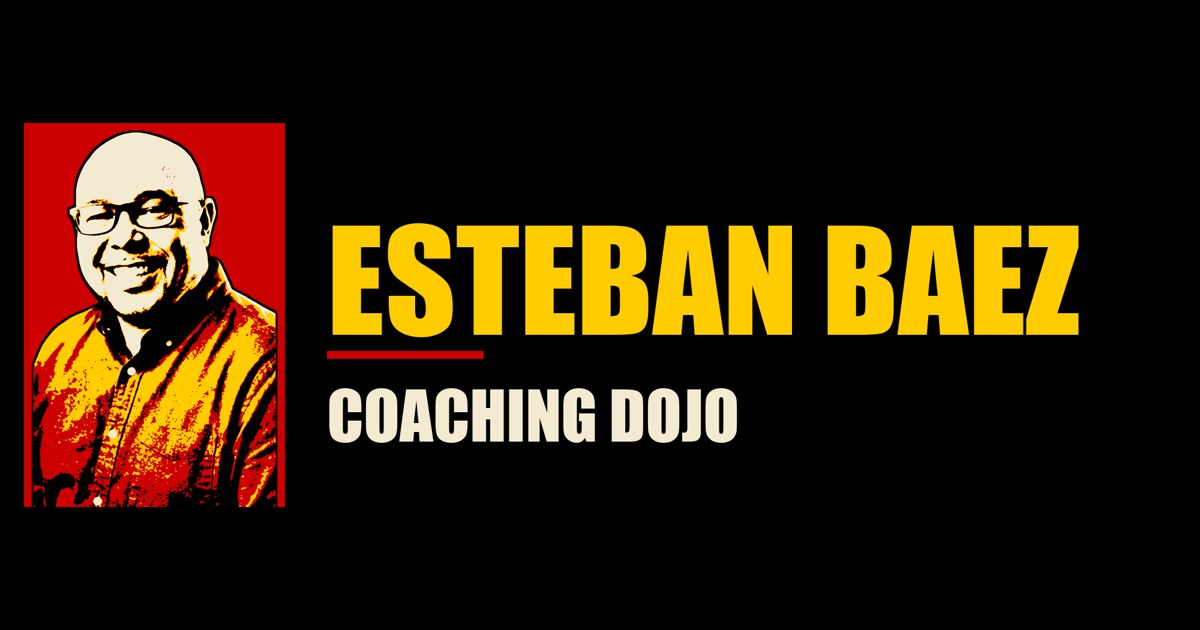
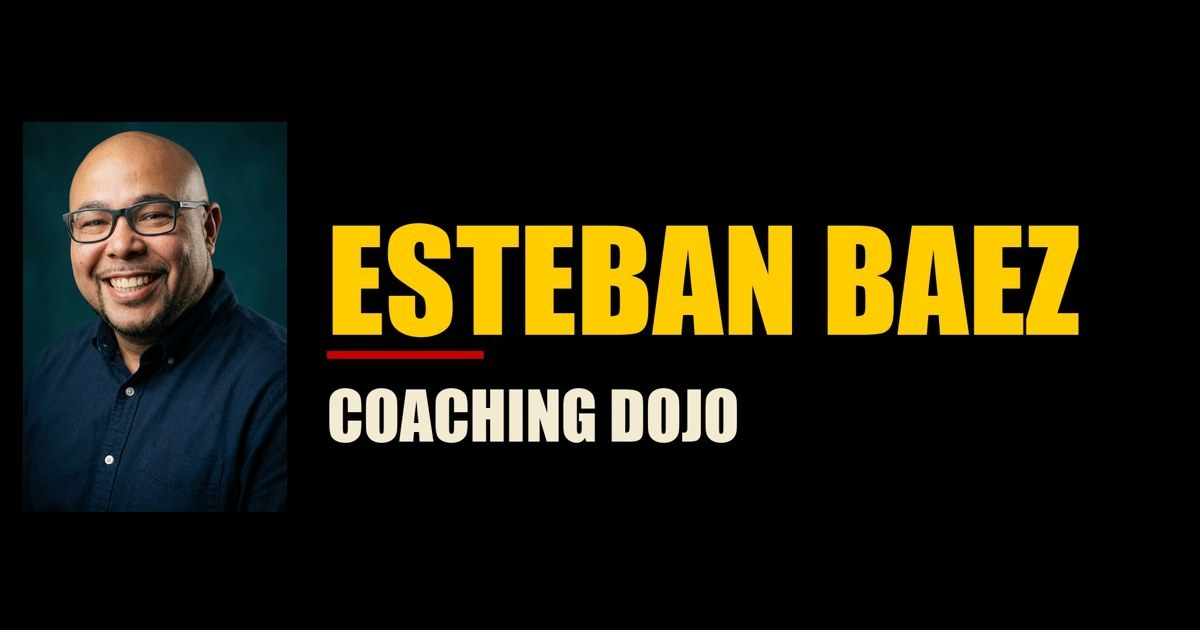
Use original studio photo for hero and share image
Claude-Session: https://claude.ai/code/session_0122WDdwgaUroXYcLvfHbMBm

diff --git a/index.html b/index.html
@@ -17,7 +17,7 @@
 <link rel="canonical" href="https://estebanbaez.com/">
 <meta name="robots" content="index, follow">
 <meta name="author" content="Esteban Baez">
-<script type="application/ld+json">{"@context": "https://schema.org", "@graph": [{"@type": "Person", "@id": "https://estebanbaez.com/#esteban", "name": "Esteban Baez", "url": "https://estebanbaez.com/", "image": "https://estebanbaez.com/esteban-stencil.jpg", "jobTitle": "AI Sales Trainer and Business Consultant", "knowsAbout": ["Sales training", "AI for sales", "Claude Code", "Sales operations", "Nervous system regulation", "Quarterly planning"]}, {"@type": "ProfessionalService", "@id": "https://estebanbaez.com/#dojo", "name": "Esteban Baez Coaching Dojo", "url": "https://estebanbaez.com/", "logo": "https://estebanbaez.com/eb-logo-wide.jpg", "founder": {"@id": "https://estebanbaez.com/#esteban"}, "description": "AI sales training and business consulting for owners and operators going from $10K months to $50K+ months: sales skills, AI for sales and operations, nervous system regulation, and a quarterly goals and weekly meeting rhythm.", "areaServed": "Worldwide", "serviceType": ["Sales coaching", "AI sales training", "Business coaching"], "potentialAction": {"@type": "ReserveAction", "target": "https://calendly.com/estebanbaezcoaching/virtual-coffee-with-esteban", "name": "Book a virtual coffee"}}, {"@type": "FAQPage", "mainEntity": [{"@type": "Question", "name": "What does Esteban Baez coach?", "acceptedAnswer": {"@type": "Answer", "text": "Four things: using AI (Claude Code) to run sales and operations, a repeatable sales process for calls or in person, nervous system regulation for people who sell and lead under pressure, and Dominating Quarters, a quarterly goals and weekly meeting rhythm for growing a business."}}, {"@type": "Question", "name": "Who is the coaching for?", "acceptedAnswer": {"@type": "Answer", "text": "Owners and operators doing around $10K a month on hustle who are ready for $50K+ months and beyond, plus their sales reps and small teams."}}, {"@type": "Question", "name": "Who is this not for?", "acceptedAnswer": {"@type": "Answer", "text": "It's not for you if you're already at $50K a month or more, if you love the hustle and don't want a coach, if you'd rather learn everything by trial and error, or if you like living in survival mode, in fear, anxiety and stress. It's for owners who want a proven system to model and want to work in a state of thriving: creativity, expansion, abundance, growth and wealth."}}, {"@type": "Question", "name": "I've never set quarterly goals or run a weekly leadership meeting. Is that a problem?", "acceptedAnswer": {"@type": "Answer", "text": "No, that's exactly where we start. Most owners at $10K a month run on gut and hustle. We set 3 to 5 quarterly goals, build a simple weekly scorecard, and start a weekly leadership meeting that solves problems on the spot. Then we keep it running every week."}}, {"@type": "Question", "name": "Do I need special software?", "acceptedAnswer": {"@type": "Answer", "text": "No. Software doesn't run a business; principles do. We'll set you up on simple tools that fit your team, and I'll walk you through exactly which ones during training."}}, {"@type": "Question", "name": "What happens on the virtual coffee?", "acceptedAnswer": {"@type": "Answer", "text": "It's a free one-hour Zoom call with Esteban. You'll leave with three things, whether you hire him or not: your 3 goals for the next 90 days, the gap in your sales process that's costing you deals, and the first thing in your business to hand to AI. No pitch deck, no pressure."}}, {"@type": "Question", "name": "How do I book?", "acceptedAnswer": {"@type": "Answer", "text": "Pick a time on Esteban's Calendly. Sessions are available weekday evenings, some weekday mornings, and weekends, Eastern Time."}}]}]}</script>
+<script type="application/ld+json">{"@context": "https://schema.org", "@graph": [{"@type": "Person", "@id": "https://estebanbaez.com/#esteban", "name": "Esteban Baez", "url": "https://estebanbaez.com/", "image": "https://estebanbaez.com/esteban-photo.jpg", "jobTitle": "AI Sales Trainer and Business Consultant", "knowsAbout": ["Sales training", "AI for sales", "Claude Code", "Sales operations", "Nervous system regulation", "Quarterly planning"]}, {"@type": "ProfessionalService", "@id": "https://estebanbaez.com/#dojo", "name": "Esteban Baez Coaching Dojo", "url": "https://estebanbaez.com/", "logo": "https://estebanbaez.com/eb-logo-wide.jpg", "founder": {"@id": "https://estebanbaez.com/#esteban"}, "description": "AI sales training and business consulting for owners and operators going from $10K months to $50K+ months: sales skills, AI for sales and operations, nervous system regulation, and a quarterly goals and weekly meeting rhythm.", "areaServed": "Worldwide", "serviceType": ["Sales coaching", "AI sales training", "Business coaching"], "potentialAction": {"@type": "ReserveAction", "target": "https://calendly.com/estebanbaezcoaching/virtual-coffee-with-esteban", "name": "Book a virtual coffee"}}, {"@type": "FAQPage", "mainEntity": [{"@type": "Question", "name": "What does Esteban Baez coach?", "acceptedAnswer": {"@type": "Answer", "text": "Four things: using AI (Claude Code) to run sales and operations, a repeatable sales process for calls or in person, nervous system regulation for people who sell and lead under pressure, and Dominating Quarters, a quarterly goals and weekly meeting rhythm for growing a business."}}, {"@type": "Question", "name": "Who is the coaching for?", "acceptedAnswer": {"@type": "Answer", "text": "Owners and operators doing around $10K a month on hustle who are ready for $50K+ months and beyond, plus their sales reps and small teams."}}, {"@type": "Question", "name": "Who is this not for?", "acceptedAnswer": {"@type": "Answer", "text": "It's not for you if you're already at $50K a month or more, if you love the hustle and don't want a coach, if you'd rather learn everything by trial and error, or if you like living in survival mode, in fear, anxiety and stress. It's for owners who want a proven system to model and want to work in a state of thriving: creativity, expansion, abundance, growth and wealth."}}, {"@type": "Question", "name": "I've never set quarterly goals or run a weekly leadership meeting. Is that a problem?", "acceptedAnswer": {"@type": "Answer", "text": "No, that's exactly where we start. Most owners at $10K a month run on gut and hustle. We set 3 to 5 quarterly goals, build a simple weekly scorecard, and start a weekly leadership meeting that solves problems on the spot. Then we keep it running every week."}}, {"@type": "Question", "name": "Do I need special software?", "acceptedAnswer": {"@type": "Answer", "text": "No. Software doesn't run a business; principles do. We'll set you up on simple tools that fit your team, and I'll walk you through exactly which ones during training."}}, {"@type": "Question", "name": "What happens on the virtual coffee?", "acceptedAnswer": {"@type": "Answer", "text": "It's a free one-hour Zoom call with Esteban. You'll leave with three things, whether you hire him or not: your 3 goals for the next 90 days, the gap in your sales process that's costing you deals, and the first thing in your business to hand to AI. No pitch deck, no pressure."}}, {"@type": "Question", "name": "How do I book?", "acceptedAnswer": {"@type": "Answer", "text": "Pick a time on Esteban's Calendly. Sessions are available weekday evenings, some weekday mornings, and weekends, Eastern Time."}}]}]}</script>
 
 <link rel="preconnect" href="https://fonts.googleapis.com">
 <link rel="stylesheet" href="https://fonts.googleapis.com/css2?family=Black+Han+Sans&family=Work+Sans:wght@400;500;600;700&family=IBM+Plex+Mono:wght@400;500&display=swap">
@@ -319,7 +319,7 @@ footer{padding-block:28px 40px;border-top:1px solid var(--line);font-family:var(
 <script>
   // Booking link and photos. Fill these in and the page updates itself.
   const CALENDLY_URL = "https://calendly.com/estebanbaezcoaching/virtual-coffee-with-esteban";
-  const HERO_PHOTO = "esteban-stencil.jpg";
+  const HERO_PHOTO = "esteban-photo.jpg";
   const ABOUT_PHOTO = "";  // e.g. "esteban-stage.jpg"
 
   if (CALENDLY_URL) {
